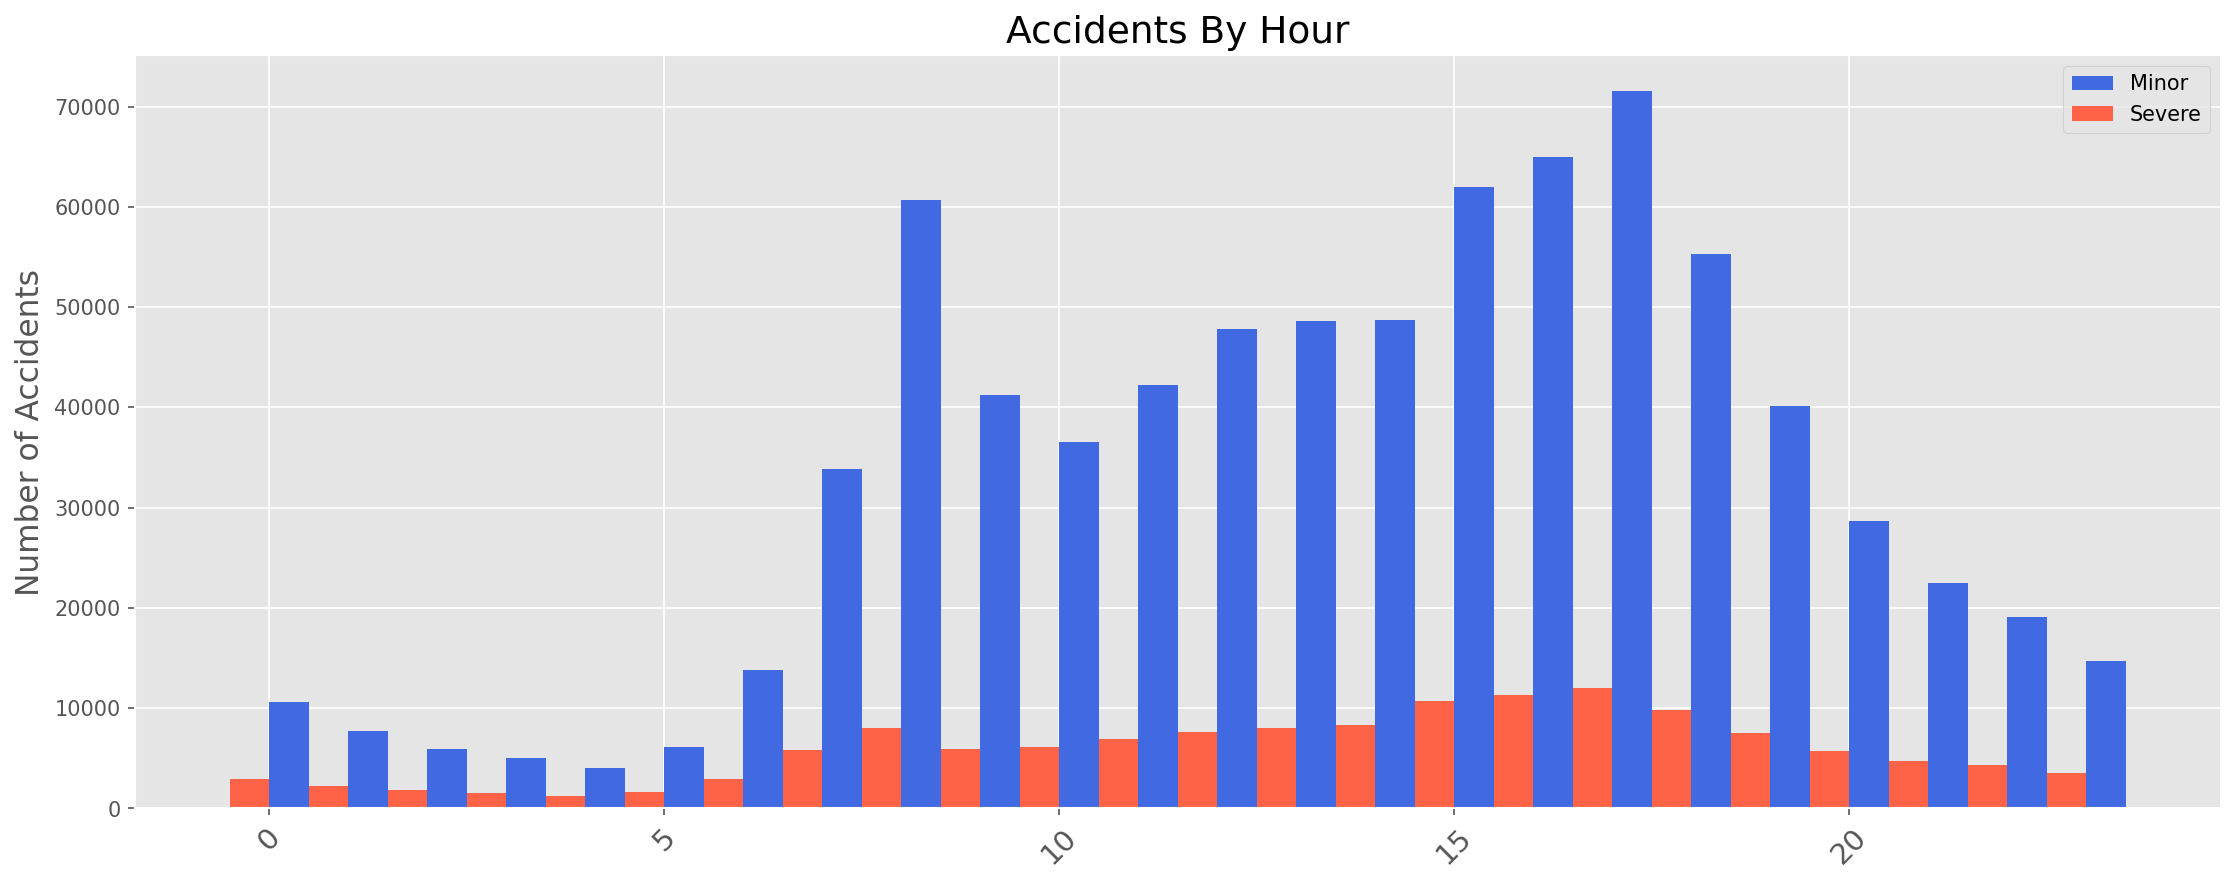
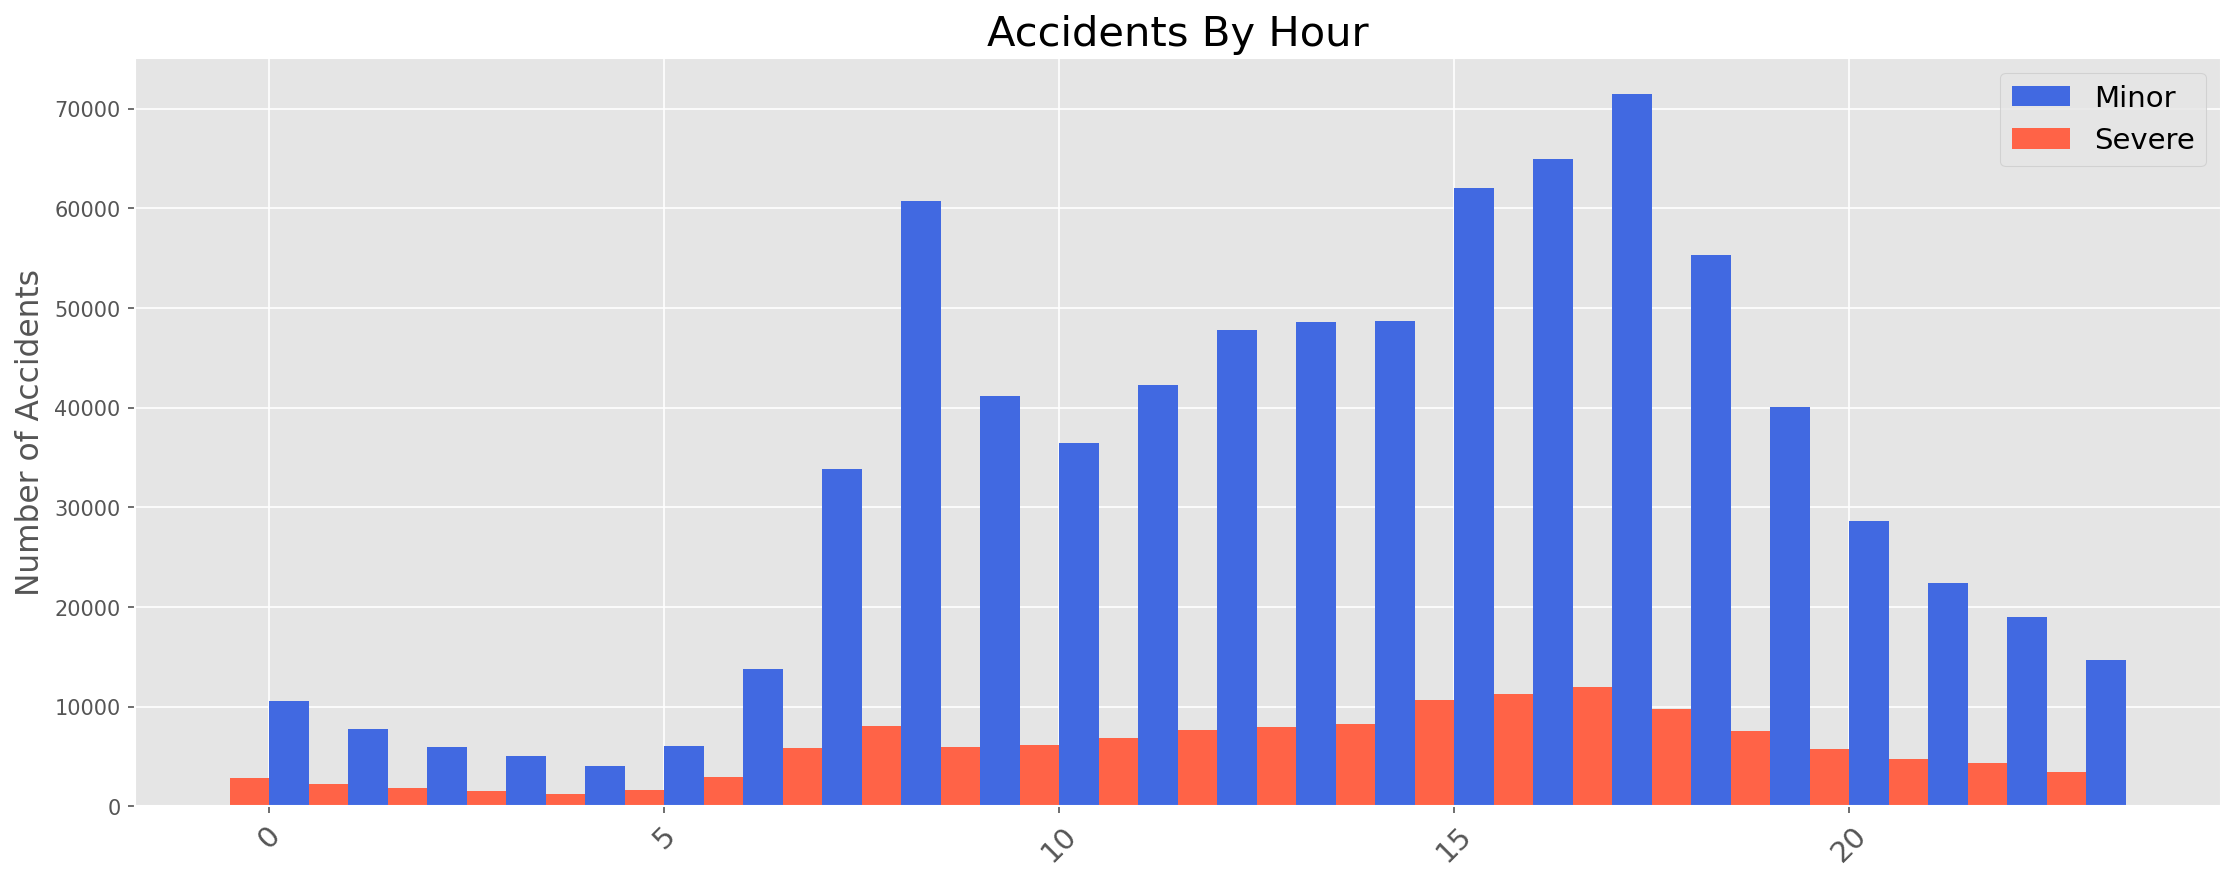
updated legend on plots

diff --git a/src/uk_eda.py b/src/uk_eda.py
@@ -39,9 +39,9 @@ def plots_with_severity_groups(df1, df2, ylab, title, save_loc):
     ax.bar(x2, y2, color='tomato', width=-bar_width, align='edge', label='Severe')
     plt.xticks(rotation=45, fontsize=14, horizontalalignment='center')
     ax.set_ylabel(ylab, fontsize=15)
-    ax.set_title(title, fontsize=18)
+    ax.set_title(title, fontsize=20)
     fig.tight_layout()
-    ax.legend()
+    ax.legend(fontsize= 14)
     plt.savefig(save_loc, dpi=150, bbox_inches = 'tight')
 
 def plots_with_severity_groups_ratios(df1, df2, ylab, title, save_loc):
@@ -57,9 +57,9 @@ def plots_with_severity_groups_ratios(df1, df2, ylab, title, save_loc):
     ax.bar(x2, (y2/(y1+y2)), color='tomato', width=-bar_width, align='edge', label='Severe')
     plt.xticks(rotation=45, fontsize=14, horizontalalignment='center')
     ax.set_ylabel(ylab, fontsize=15)
-    ax.set_title(title, fontsize=18)
+    ax.set_title(title, fontsize=20)
     fig.tight_layout()
-    ax.legend()
+    ax.legend(fontsize= 14)
     plt.savefig(save_loc, dpi=150, bbox_inches = 'tight')
 
 
